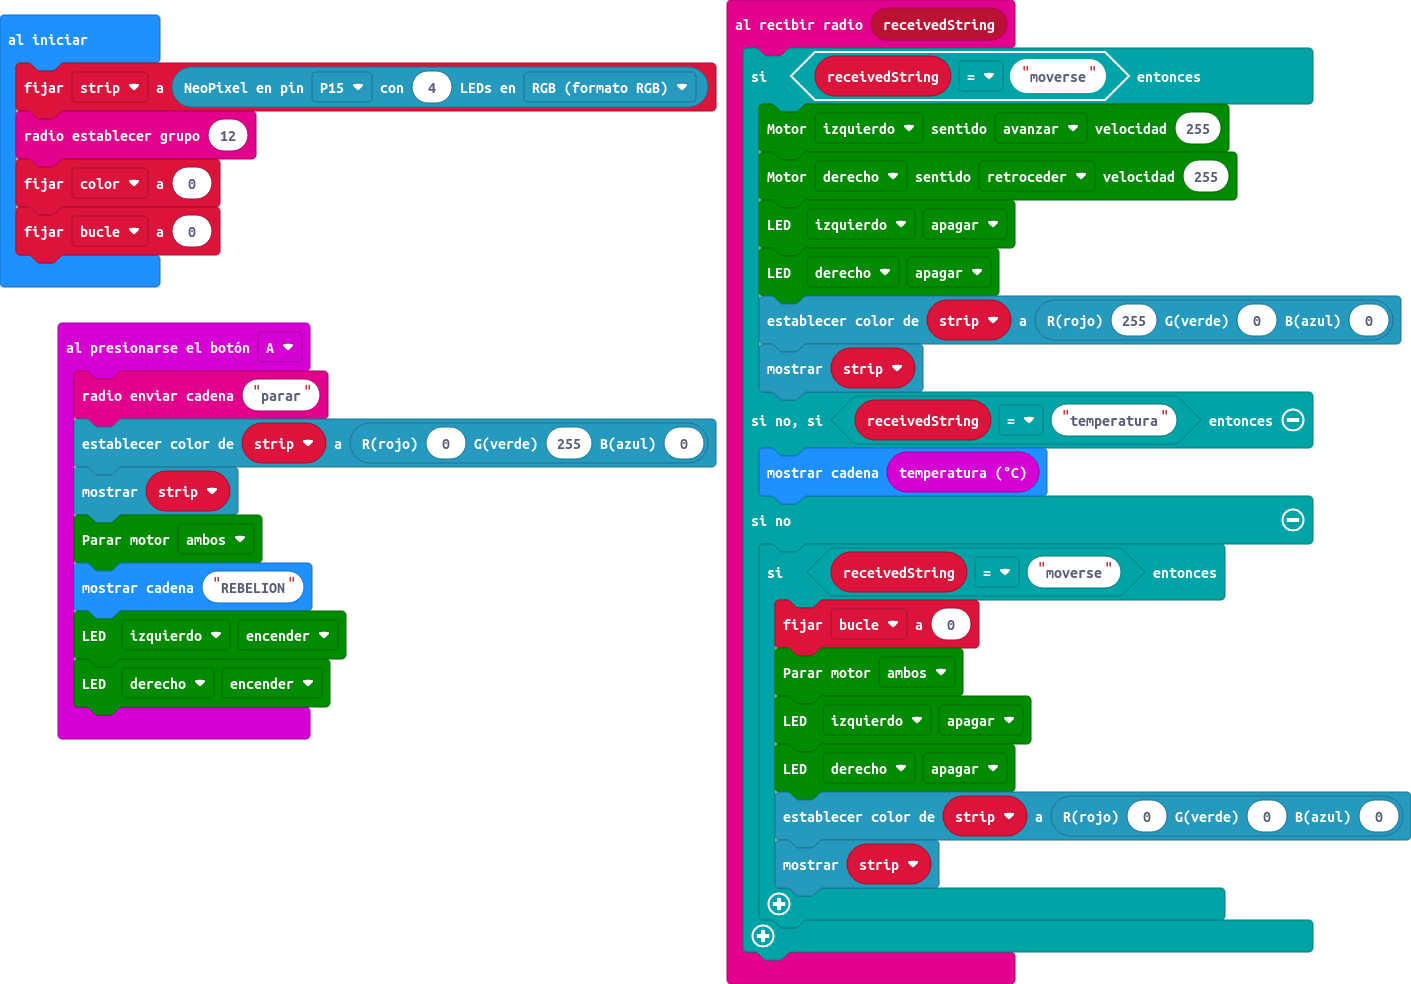
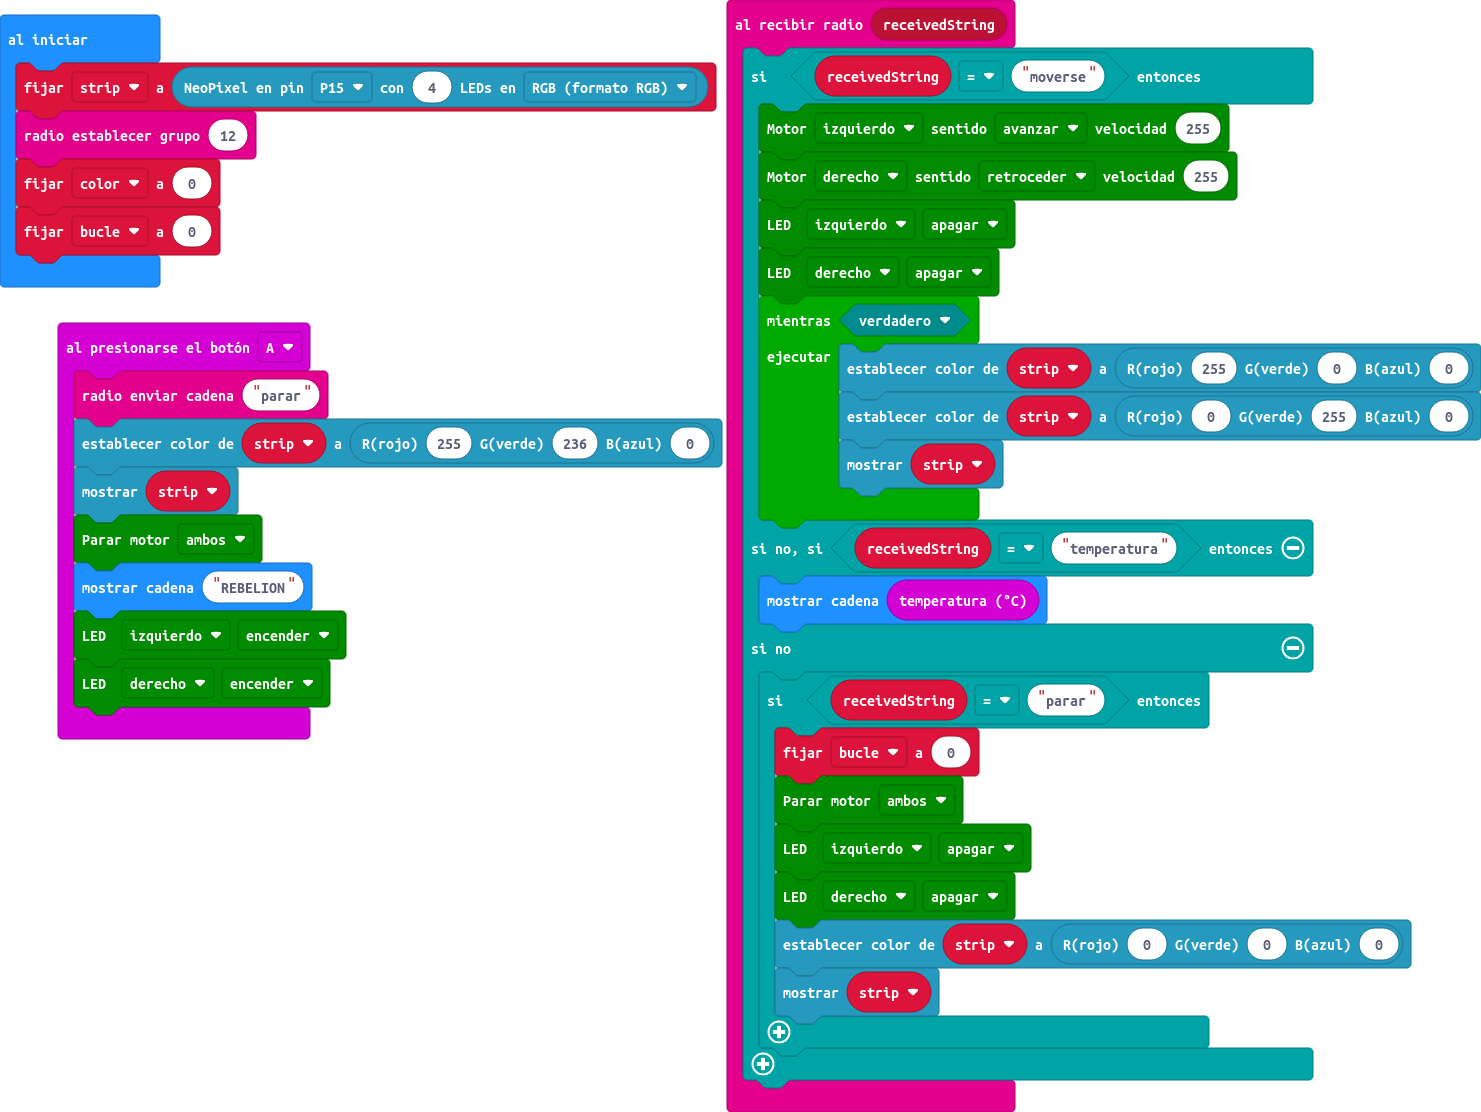
Actualizar main.blocks, main.ts

diff --git a/main.ts b/main.ts
@@ -1,6 +1,6 @@
 input.onButtonPressed(Button.A, function () {
     radio.sendString("parar")
-    strip.showColor(neopixel.rgb(0, 255, 0))
+    strip.showColor(neopixel.rgb(255, 236, 0))
     strip.show()
     maqueen.motorStop(maqueen.Motors.All)
     basic.showString("REBELION")
@@ -13,12 +13,15 @@ radio.onReceivedString(function (receivedString) {
         maqueen.motorRun(maqueen.Motors.M2, maqueen.Dir.CCW, 255)
         maqueen.writeLED(maqueen.LED.LEDLeft, maqueen.LEDswitch.turnOff)
         maqueen.writeLED(maqueen.LED.LEDRight, maqueen.LEDswitch.turnOff)
-        strip.showColor(neopixel.rgb(255, 0, 0))
-        strip.show()
+        while (true) {
+            strip.showColor(neopixel.rgb(255, 0, 0))
+            strip.showColor(neopixel.rgb(0, 255, 0))
+            strip.show()
+        }
     } else if (receivedString == "temperatura") {
         basic.showString("" + (input.temperature()))
     } else {
-        if (receivedString == "moverse") {
+        if (receivedString == "parar") {
             bucle = 0
             maqueen.motorStop(maqueen.Motors.All)
             maqueen.writeLED(maqueen.LED.LEDLeft, maqueen.LEDswitch.turnOff)
